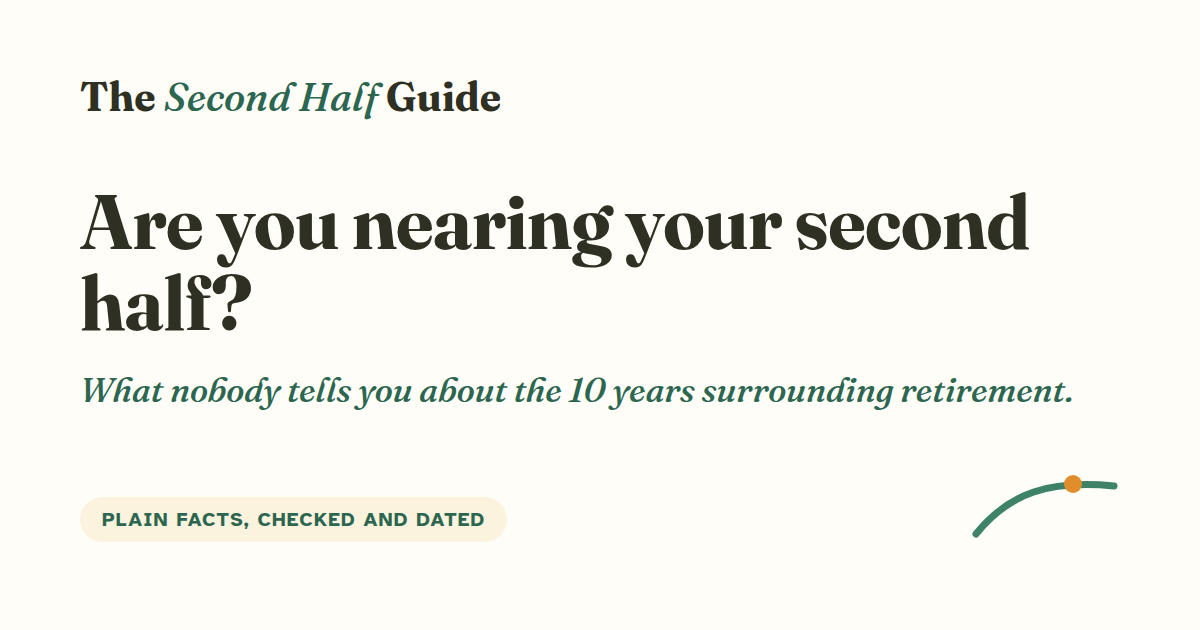
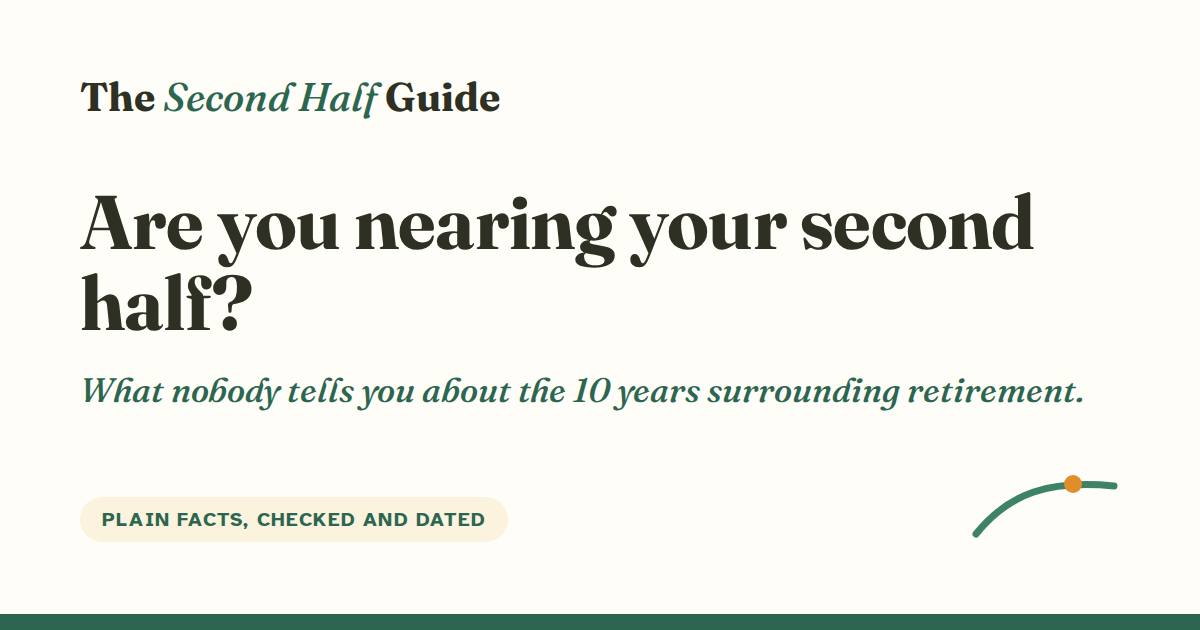
Add author photo; fix clipped renders
Portrait cropped to head and shoulders from the original frame and shown in
the author block on every article and beside the bio on the About page,
replacing the ES monogram.

Also re-renders the Open Graph card. Both images were produced with headless
Chromium, and the 'chrome' binary silently clips the viewport — a div sized
480x480 only painted 393 rows, which is why the first share card lost its
base bar. The headless_shell binary renders the full viewport, so both images
are regenerated with it.

Original frame and the crop recipe are kept in _src/photo/.

Claude-Session: https://claude.ai/code/session_013usLijphTiRiK9vK4nRT8e

diff --git a/styles.css b/styles.css
@@ -558,6 +558,11 @@ body.doc .todo {
     border-radius: var(--radius); background: color-mix(in srgb, var(--gold-soft) 30%, transparent);
   }
 body.doc .todo p { margin: 0; font-size: 16px; color: var(--ink-soft); }
+body.doc .author-intro { display: flex; gap: 22px; align-items: center; margin: 0 0 20px; }
+body.doc .author-intro img { flex: none; width: 120px; height: 120px; border-radius: 50%; object-fit: cover;
+    border: 3px solid var(--surface); box-shadow: var(--shadow); }
+body.doc .author-intro p { margin: 0; }
+@media (max-width: 520px) {body.doc .author-intro { flex-direction: column; align-items: flex-start; gap: 16px; }}
 body.doc .todo strong { color: var(--ink); }
 body.doc .contact-card {
     display: flex; gap: 18px; align-items: flex-start; margin: 0 0 18px;
@@ -635,6 +640,11 @@ body.article .todo {
     border-radius: var(--radius); background: color-mix(in srgb, var(--gold-soft) 30%, transparent);
   }
 body.article .todo p { margin: 0; font-size: 16px; color: var(--ink-soft); }
+body.article .author-intro { display: flex; gap: 22px; align-items: center; margin: 0 0 20px; }
+body.article .author-intro img { flex: none; width: 120px; height: 120px; border-radius: 50%; object-fit: cover;
+    border: 3px solid var(--surface); box-shadow: var(--shadow); }
+body.article .author-intro p { margin: 0; }
+@media (max-width: 520px) {body.article .author-intro { flex-direction: column; align-items: flex-start; gap: 16px; }}
 body.article .todo strong { color: var(--ink); }
 body.article .contact-card {
     display: flex; gap: 18px; align-items: flex-start; margin: 0 0 18px;
@@ -716,10 +726,9 @@ body.article .author {
     display: flex; gap: 18px; align-items: flex-start; margin: 40px 0 8px; padding: 26px 28px;
     background: var(--surface-2); border-radius: var(--radius); border-left: 4px solid var(--pine);
   }
-body.article .author .initials {
-    flex: none; width: 54px; height: 54px; border-radius: 50%; background: var(--pine);
-    color: #FBFAF4; font-family: 'Fraunces', serif; font-weight: 700; font-size: 20px;
-    display: flex; align-items: center; justify-content: center; letter-spacing: 0.02em;
+body.article .author .portrait {
+    flex: none; width: 72px; height: 72px; border-radius: 50%; object-fit: cover;
+    border: 2px solid var(--surface); box-shadow: 0 1px 3px rgba(51,53,42,0.18);
   }
 body.article .author h2 { font-family: 'Fraunces', serif; font-weight: 700; font-size: 19px; margin: 0 0 8px; }
 body.article .author p { margin: 0 0 10px; font-size: 16px; color: var(--ink-soft); max-width: 62ch; }

diff --git a/about.html b/about.html
@@ -86,7 +86,11 @@
       </div>
 
       <h2>Who writes this</h2>
-      <p>The Second Half Guide is written and edited by <strong>Edward Silva</strong>.</p>
+      <div class="author-intro">
+        <img src="/images/edward.png" width="120" height="120" alt="Edward Silva"
+             loading="lazy" decoding="async">
+        <p>The Second Half Guide is written and edited by <strong>Edward Silva</strong>.</p>
+      </div>
 
       <p>I spent more than forty years as a computer professional. That career leaves you with one habit that turns out to be useful here: when somebody hands you a summary, you go and read the actual documentation. Forty years of release notes, specifications and vendor claims will teach anyone to distrust a confident paraphrase.</p>
 
@@ -99,7 +103,7 @@
       <p>What I am not: a financial adviser, an attorney, an accountant or an insurance agent. I hold no licence and I sell no products. That's a limitation and I'd rather state it plainly than imply otherwise &mdash; this site tells you what the rules say and where to check them. It does not tell you what to do with your money.</p>
 
       <div class="todo">
-        <p><strong>Edward &mdash; two things worth adding here before launch.</strong> First, a photograph of you. Author photos measurably help on exactly this kind of site, and a real face outperforms anything else on this page. Second, read the paragraphs above and change anything that doesn't sound like you &mdash; I've written them from the details you gave me, but the voice should be yours, and it's the one block on the site where that matters most.</p>
+        <p><strong>Edward &mdash; one thing left here.</strong> Read the paragraphs above and change anything that doesn't sound like you. I wrote them from the details you gave me, but the voice should be yours, and this is the one block on the site where that matters most.</p>
       </div>
     </div>
   </div>

diff --git a/advantage-vs-original.html b/advantage-vs-original.html
@@ -209,7 +209,8 @@
     </div>
 
     <div class="author">
-      <div class="initials" aria-hidden="true">ES</div>
+      <img class="portrait" src="/images/edward.png" width="72" height="72"
+           alt="Edward Silva" loading="lazy" decoding="async">
       <div>
         <h2>Edward Silva</h2>
         <p>Edward spent more than forty years as a computer professional &mdash; long enough to pick up

diff --git a/aging-in-place.html b/aging-in-place.html
@@ -178,7 +178,8 @@
     </div>
 
     <div class="author">
-      <div class="initials" aria-hidden="true">ES</div>
+      <img class="portrait" src="/images/edward.png" width="72" height="72"
+           alt="Edward Silva" loading="lazy" decoding="async">
       <div>
         <h2>Edward Silva</h2>
         <p>Edward spent more than forty years as a computer professional &mdash; long enough to pick up

diff --git a/beneficiary-form.html b/beneficiary-form.html
@@ -172,7 +172,8 @@
     </div>
 
     <div class="author">
-      <div class="initials" aria-hidden="true">ES</div>
+      <img class="portrait" src="/images/edward.png" width="72" height="72"
+           alt="Edward Silva" loading="lazy" decoding="async">
       <div>
         <h2>Edward Silva</h2>
         <p>Edward spent more than forty years as a computer professional &mdash; long enough to pick up

diff --git a/digital-estate.html b/digital-estate.html
@@ -192,7 +192,8 @@
     </div>
 
     <div class="author">
-      <div class="initials" aria-hidden="true">ES</div>
+      <img class="portrait" src="/images/edward.png" width="72" height="72"
+           alt="Edward Silva" loading="lazy" decoding="async">
       <div>
         <h2>Edward Silva</h2>
         <p>Edward spent more than forty years as a computer professional &mdash; long enough to pick up

diff --git a/drug-cap.html b/drug-cap.html
@@ -191,7 +191,8 @@
     </div>
 
     <div class="author">
-      <div class="initials" aria-hidden="true">ES</div>
+      <img class="portrait" src="/images/edward.png" width="72" height="72"
+           alt="Edward Silva" loading="lazy" decoding="async">
       <div>
         <h2>Edward Silva</h2>
         <p>Edward spent more than forty years as a computer professional &mdash; long enough to pick up

diff --git a/enrollment-scams.html b/enrollment-scams.html
@@ -187,7 +187,8 @@
     </div>
 
     <div class="author">
-      <div class="initials" aria-hidden="true">ES</div>
+      <img class="portrait" src="/images/edward.png" width="72" height="72"
+           alt="Edward Silva" loading="lazy" decoding="async">
       <div>
         <h2>Edward Silva</h2>
         <p>Edward spent more than forty years as a computer professional &mdash; long enough to pick up

diff --git a/five-minute-rule.html b/five-minute-rule.html
@@ -215,7 +215,8 @@
     </div>
 
     <div class="author">
-      <div class="initials" aria-hidden="true">ES</div>
+      <img class="portrait" src="/images/edward.png" width="72" height="72"
+           alt="Edward Silva" loading="lazy" decoding="async">
       <div>
         <h2>Edward Silva</h2>
         <p>Edward spent more than forty years as a computer professional &mdash; long enough to pick up

diff --git a/free-college.html b/free-college.html
@@ -160,7 +160,8 @@
     </div>
 
     <div class="author">
-      <div class="initials" aria-hidden="true">ES</div>
+      <img class="portrait" src="/images/edward.png" width="72" height="72"
+           alt="Edward Silva" loading="lazy" decoding="async">
       <div>
         <h2>Edward Silva</h2>
         <p>Edward spent more than forty years as a computer professional &mdash; long enough to pick up

diff --git a/go-go-years.html b/go-go-years.html
@@ -164,7 +164,8 @@
     </div>
 
     <div class="author">
-      <div class="initials" aria-hidden="true">ES</div>
+      <img class="portrait" src="/images/edward.png" width="72" height="72"
+           alt="Edward Silva" loading="lazy" decoding="async">
       <div>
         <h2>Edward Silva</h2>
         <p>Edward spent more than forty years as a computer professional &mdash; long enough to pick up

diff --git a/long-distance.html b/long-distance.html
@@ -181,7 +181,8 @@
     </div>
 
     <div class="author">
-      <div class="initials" aria-hidden="true">ES</div>
+      <img class="portrait" src="/images/edward.png" width="72" height="72"
+           alt="Edward Silva" loading="lazy" decoding="async">
       <div>
         <h2>Edward Silva</h2>
         <p>Edward spent more than forty years as a computer professional &mdash; long enough to pick up
